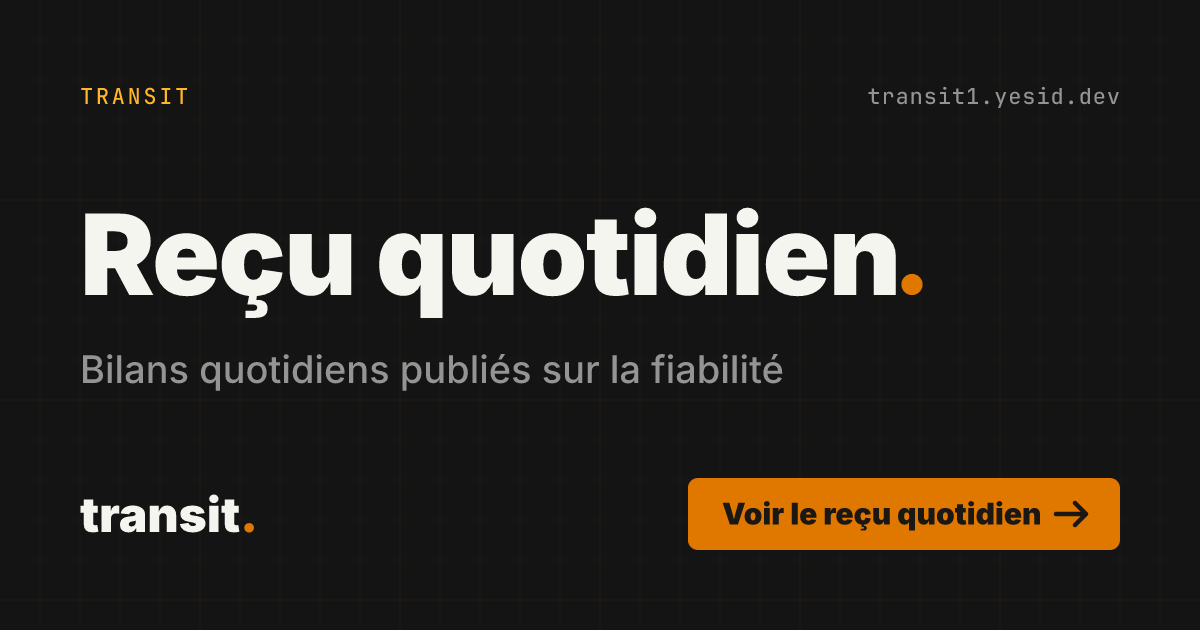
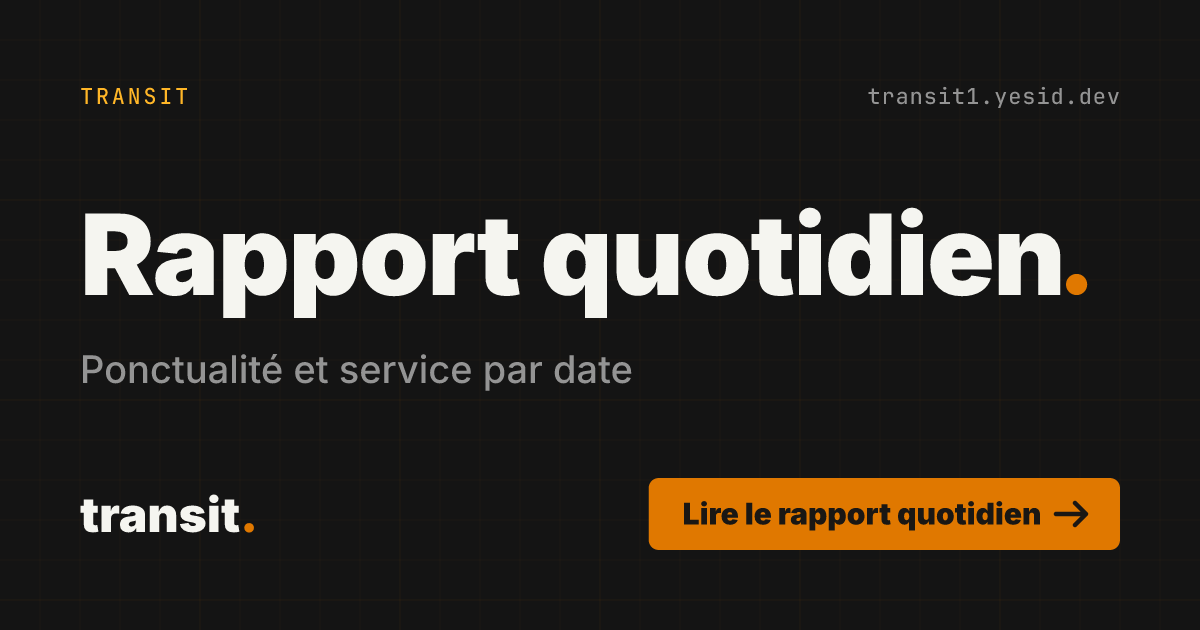
fix(web): refresh Daily report share cards

Changed region(s): [[0.1233, 0.3317, 0.925, 0.5127], [0.0617, 0.573, 0.6475, 0.6333], [0.5242, 0.754, 0.74, 0.8746]]

diff --git a/apps/web/src/lib/seo/share-copy.ts b/apps/web/src/lib/seo/share-copy.ts
@@ -93,12 +93,12 @@ export const SHARE_COPY = {
 	},
 	'/receipt': {
 		en: {
-			support: 'Published daily transit reliability summaries',
-			cta: 'View the daily receipt',
+			support: 'On-time performance and service by date',
+			cta: 'Read the daily report',
 		},
 		fr: {
-			support: 'Bilans quotidiens publiés sur la fiabilité',
-			cta: 'Voir le reçu quotidien',
+			support: 'Ponctualité et service par date',
+			cta: 'Lire le rapport quotidien',
 		},
 	},
 	'/repeat-offenders': {
